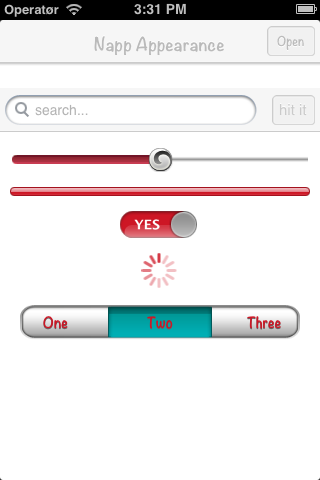
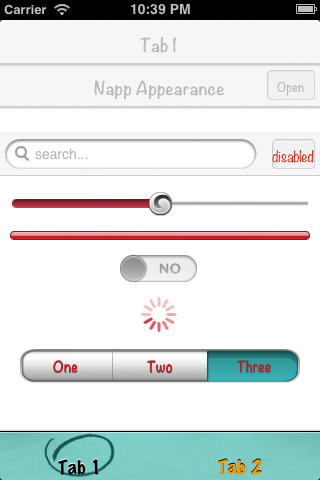
updated readme

diff --git a/README.md b/README.md
@@ -116,7 +116,23 @@ NappAppearance.setGlobalStyling({
 	},
 	tabBar:{
 		backgroundImage:"/images/tabBar.png",
-		backgroundSelectedImage:"/images/tab_select_indicator.png"
+		backgroundSelectedImage:"/images/tab_select_indicator.png",
+		// normal state
+		color:"#ff9900",
+		shadowColor: "black",
+		shadowOffset: {
+			x:0,
+			y:-1
+		},
+		font:{
+			fontSize:20,
+			fontFamily:"Marker Felt"
+		},
+		// selected state
+		selected: {
+			color:"#000000",
+			shadowColor: "#ffffff"
+		}
 	},
 	toolbar:{
 		tintColor:"#CD1625",
@@ -202,6 +218,11 @@ NappAppearance.setGlobalStyling({
 ```
 
 ## Changelog
+
+**v.1.2.0**
+
+* Support for ```tabBar``` text customization
+
 
 **v.1.1.2**
 
